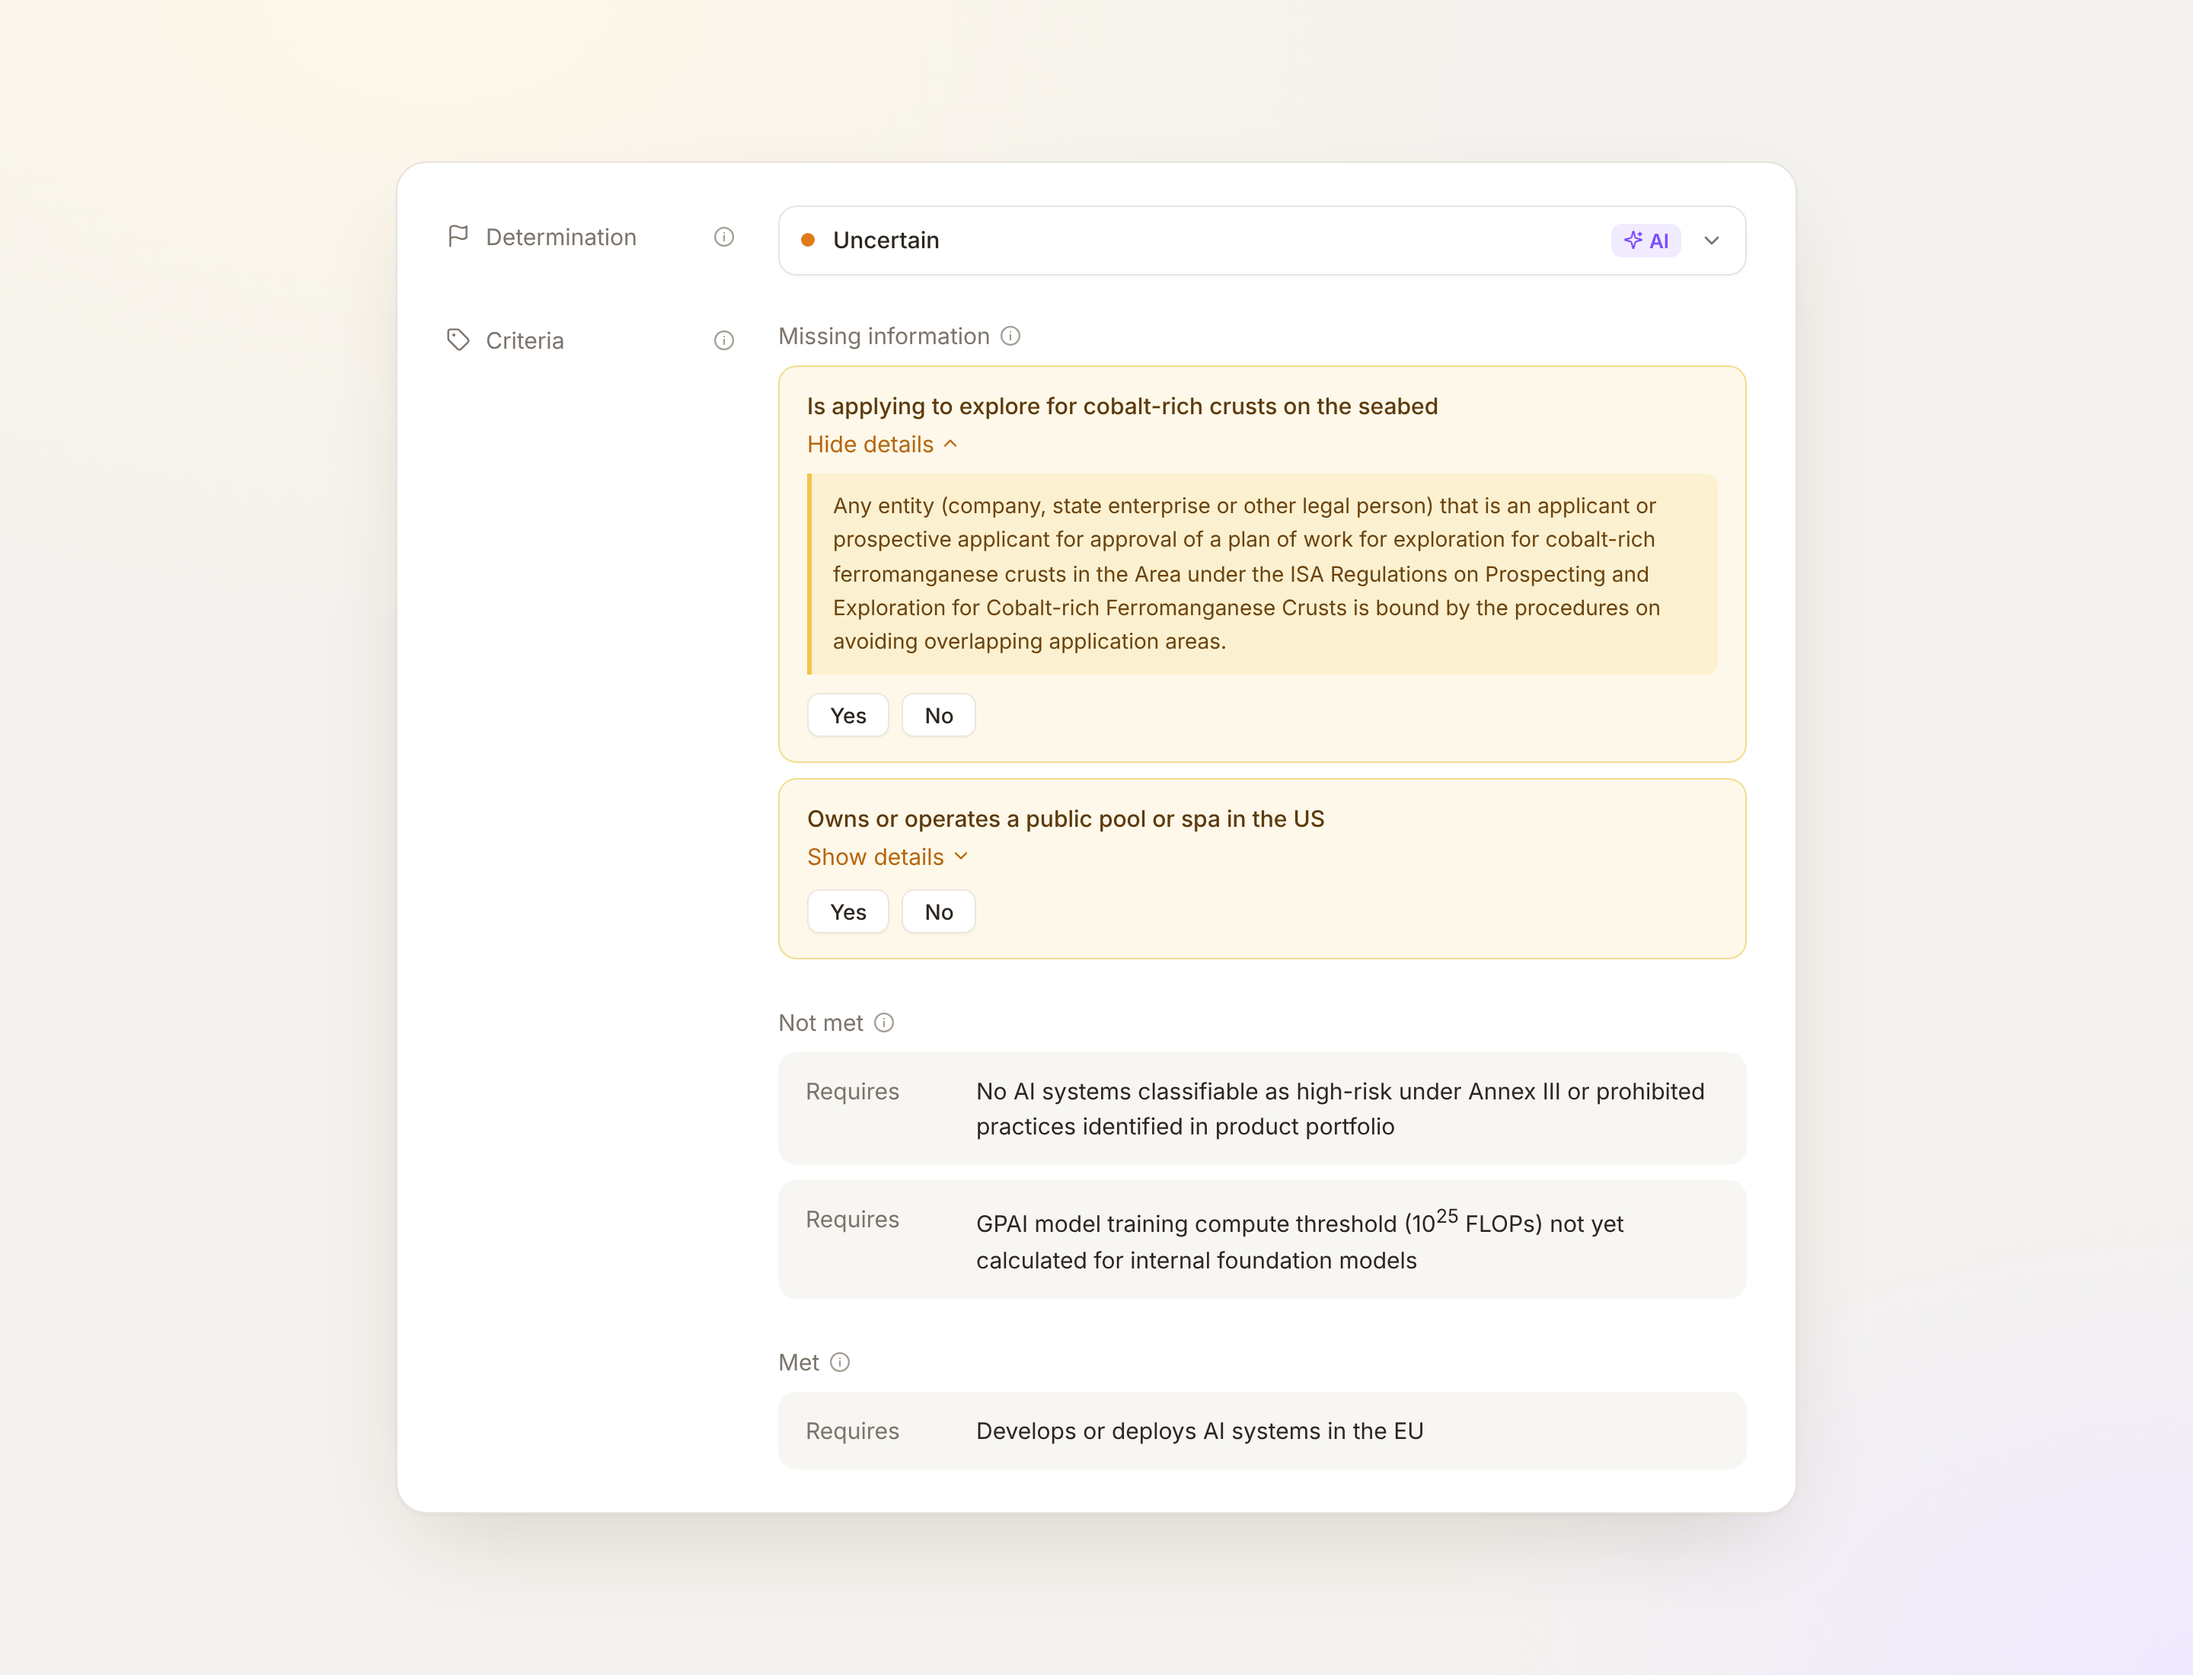
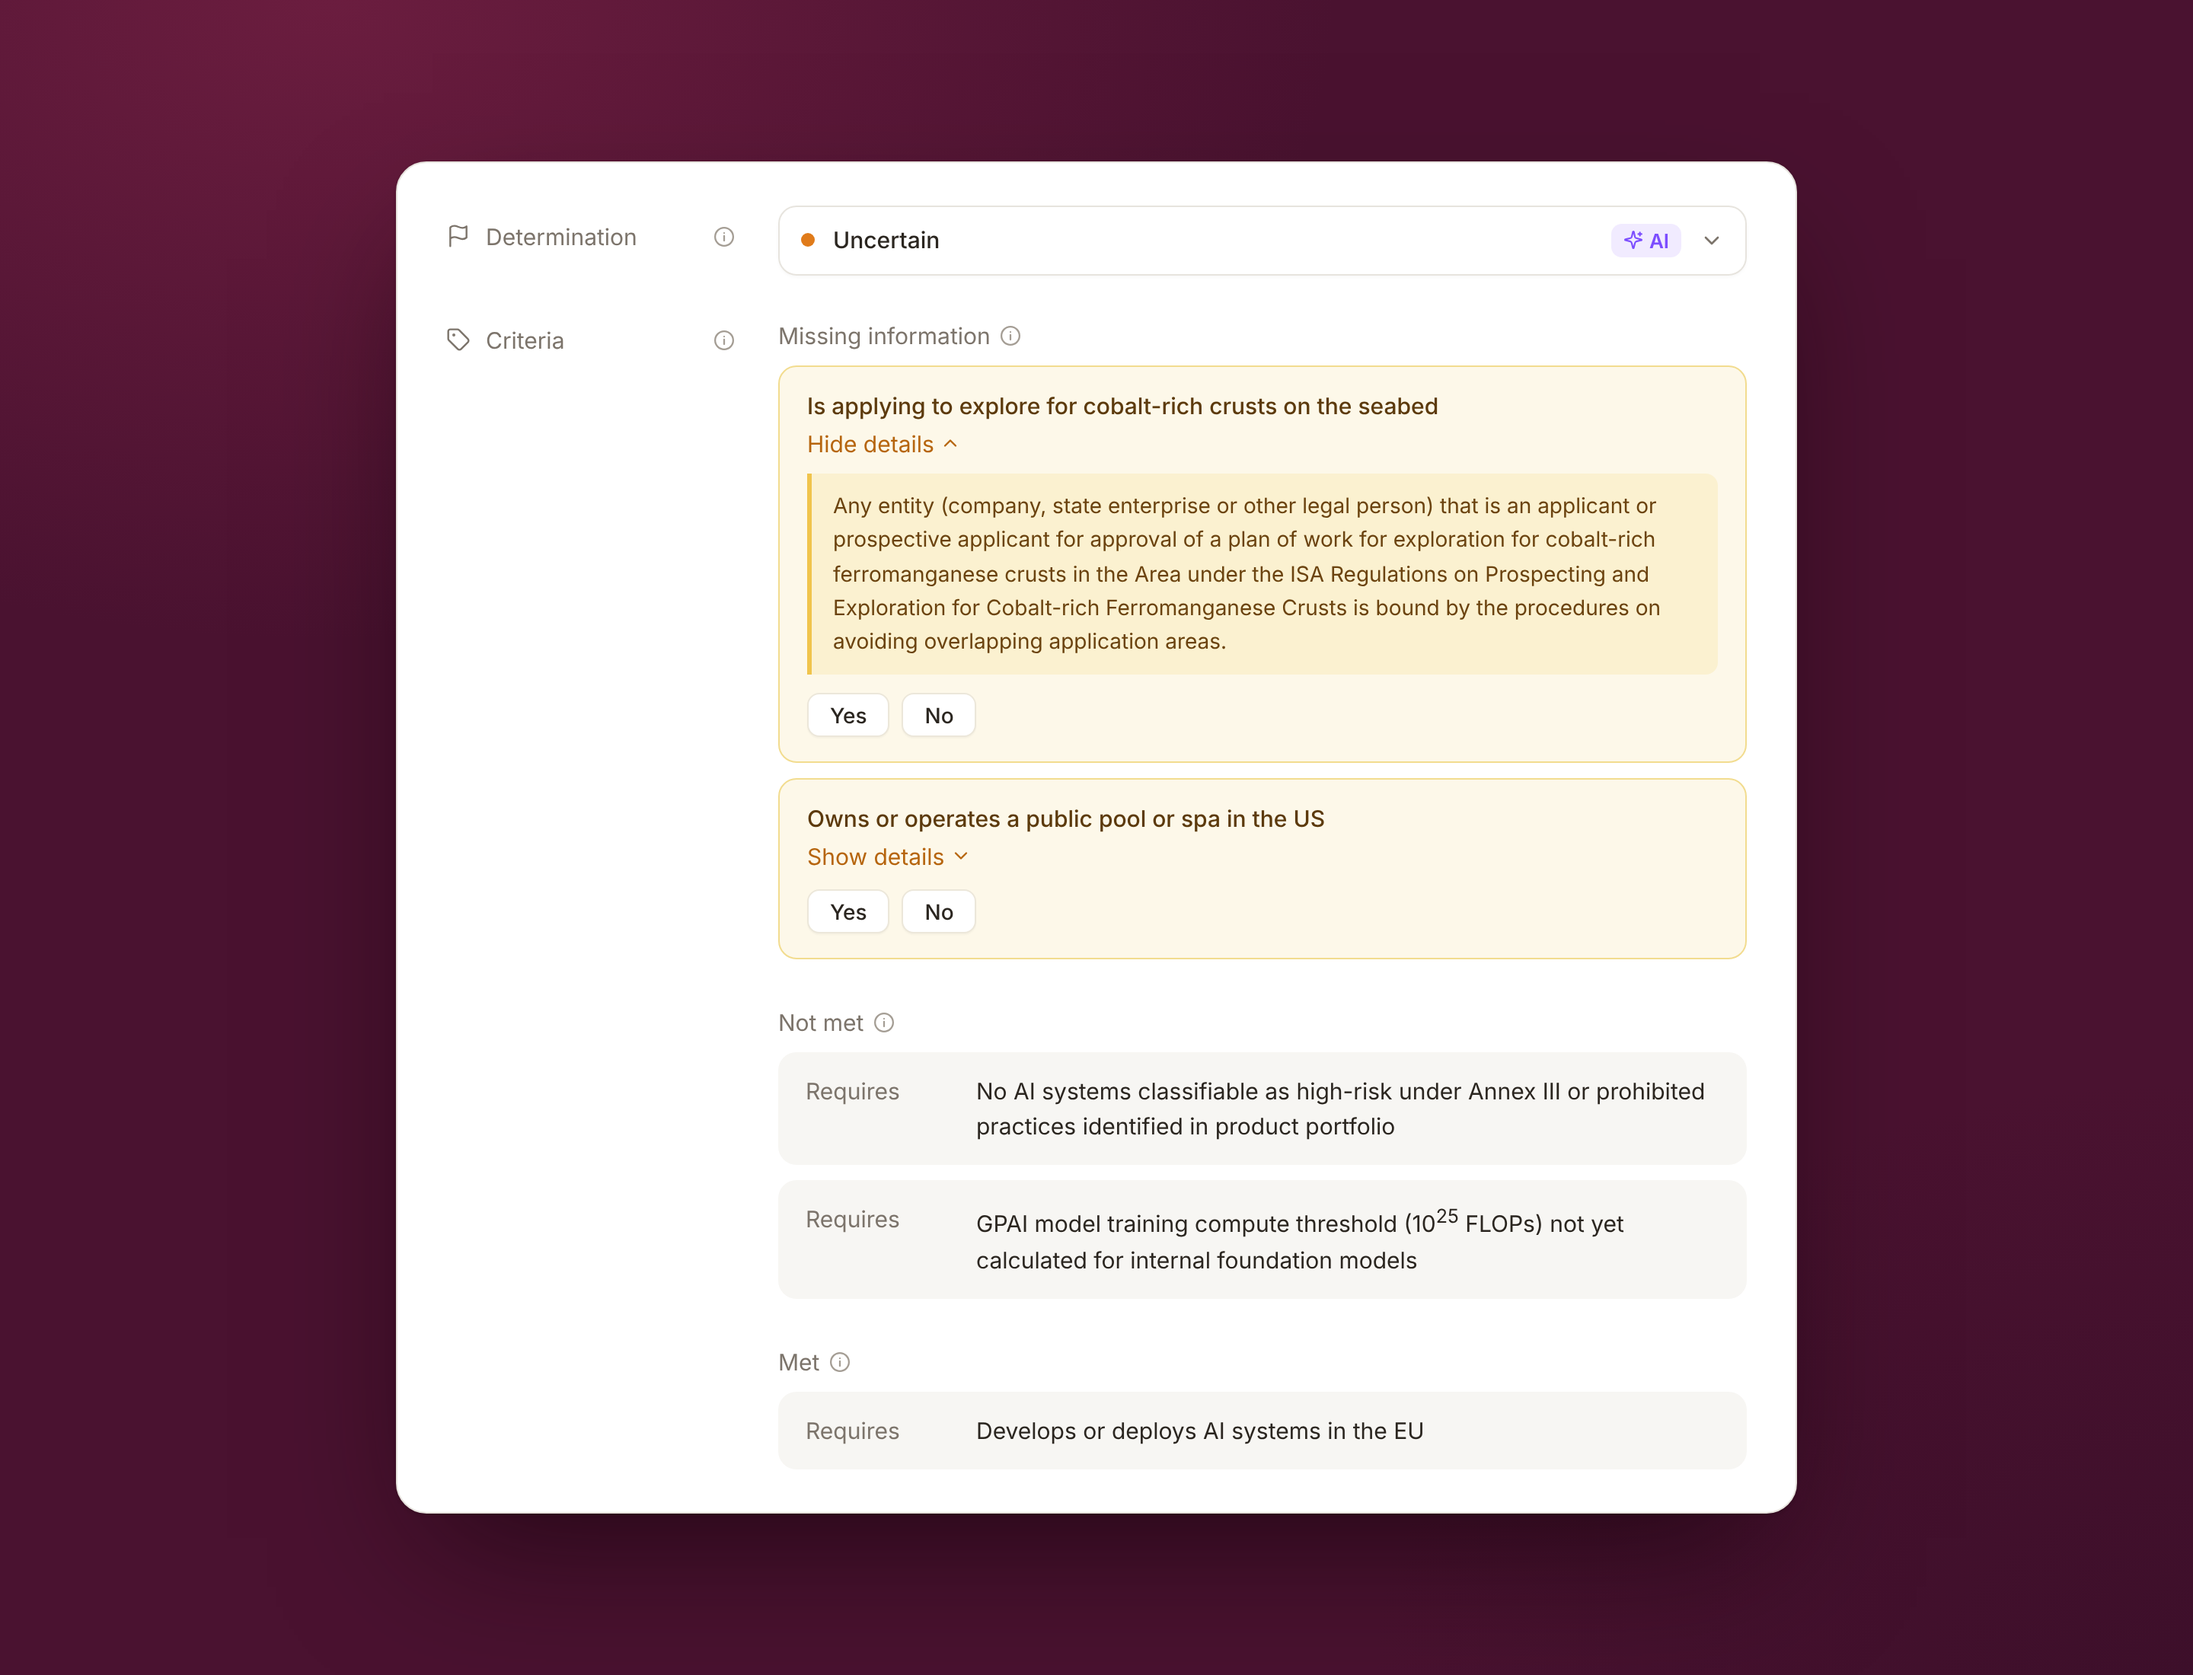
Hero: deep aubergine background
Claude-Session: https://claude.ai/code/session_01W7LDHRCM9QrS6rg3McaD21

diff --git a/hero/criteria-determination.html b/hero/criteria-determination.html
@@ -16,8 +16,8 @@
   * { box-sizing: border-box; margin: 0; }
   html, body { height: 100%; }
   body {
-    background: radial-gradient(1200px 700px at 20% 0%, #fff8ea 0%, transparent 60%),
-                radial-gradient(900px 600px at 100% 100%, #efe9ff 0%, transparent 55%), var(--bg);
+    background: radial-gradient(1100px 700px at 15% 0%, #6b1d3f 0%, transparent 60%),
+                radial-gradient(900px 650px at 100% 100%, #3d0f2a 0%, transparent 60%), #4a1230;
     font-family: Inter, system-ui, sans-serif; color: var(--fg);
     display: grid; place-items: center; padding: 64px 16px;
     -webkit-font-smoothing: antialiased;
@@ -25,7 +25,7 @@
   .card {
     width: min(920px, 100%); background: var(--card); border: 1px solid var(--border);
     border-radius: 20px; padding: 28px 32px;
-    box-shadow: 0 1px 2px rgba(40,30,10,.04), 0 24px 60px -20px rgba(60,40,10,.18);
+    box-shadow: 0 1px 2px rgba(20,0,10,.2), 0 40px 90px -24px rgba(15,0,8,.65);
     display: grid; grid-template-columns: 190px 1fr; gap: 22px 28px; font-size: 15px;
   }
   .label { display: flex; align-items: center; justify-content: space-between; color: var(--muted); padding-top: 11px; align-self: start; }
